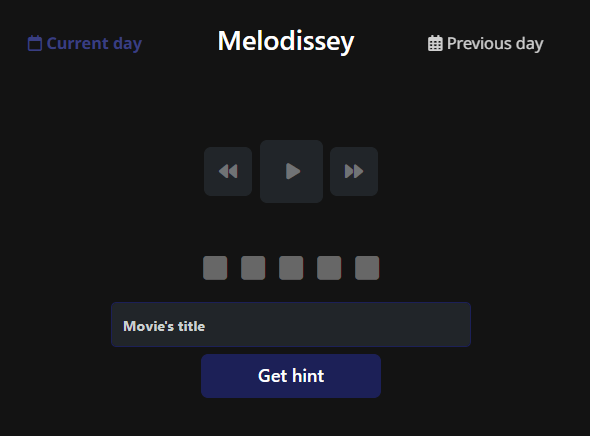
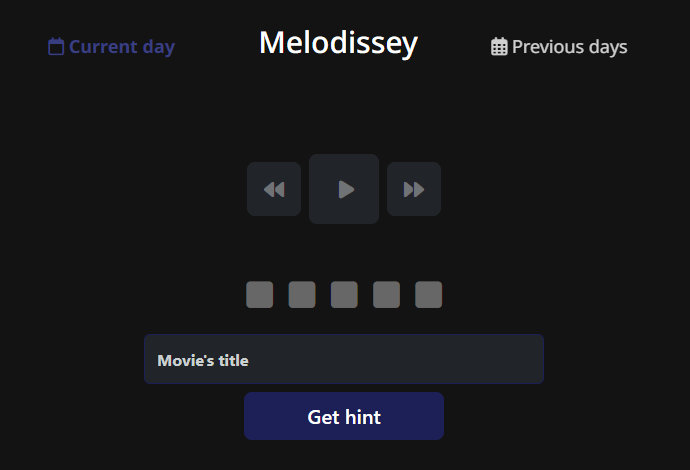
fixing typo and updating readMe asset

diff --git a/src/app/app.component.html b/src/app/app.component.html
@@ -15,7 +15,9 @@
               </li>
             </div>
             <div class="col-auto mb-2">
-              <span class="h1 justify-content-center align-top" style="font-size:30px;color:white">Melodissey</span>
+              <a class="h1 justify-content-center align-top noto-sans-txt ft-lg" style="text-decoration: none; font-size:30px;color:white"href="/">
+                <span >Melodissey</span>
+              </a>
             
             </div>
             <div class="col col-lg-2 text-end">
@@ -23,7 +25,7 @@
               <li class="nav-item">
                 <a id="previous" class="nav-link noto-sans-txt ft-lg" href="/">
                   <i class="fa-regular fa-calendar-days text-end"></i>
-                  Previous day
+                  Previous days
                 </a>
               </li>
             </div>
